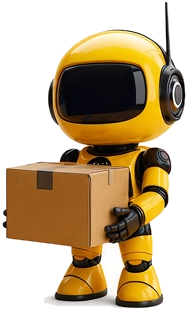
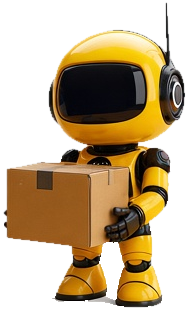
Robot placement fixes: de-fringe CTA bots, resize/reposition, strip About photo
- coffee/box PNGs: removed leftover white in the leg area (enclosed gap the
  border flood-fill missed) + 1px halo shave; white mug and box protected
- Pricing CTA bots: smaller (max 138px), lifted to vertical-centre beside the
  copy, pulled inward
- About founder section: removed stock founder photo + caption, collapsed to a
  centred copy column, killed the white gap above the team panel

diff --git a/src/components/AboutPageClient.tsx b/src/components/AboutPageClient.tsx
@@ -813,7 +813,7 @@ function ValuesSection() {
 function WorkforceSection() {
   return (
     <section
-      style={{ backgroundColor: "#fff", paddingTop: 'clamp(48px, 10vw, 96px)', paddingBottom: 'clamp(48px, 10vw, 96px)' }}
+      style={{ backgroundColor: "#fff", paddingTop: 'clamp(48px, 10vw, 96px)', paddingBottom: 'clamp(24px, 5vw, 48px)' }}
     >
       <div className="max-w-4xl mx-auto px-4 sm:px-6 lg:px-8">
         {/* Badge */}
@@ -959,7 +959,7 @@ function FounderSection() {
     <section
       style={{
         backgroundColor: "#FFFDF5",
-        paddingTop: 'clamp(48px, 10vw, 96px)',
+        paddingTop: 'clamp(8px, 1.5vw, 20px)',
         paddingBottom: 'clamp(48px, 10vw, 96px)',
         overflow: "hidden",
       }}
@@ -978,72 +978,7 @@ function FounderSection() {
             />
           </div>
         </ScrollReveal>
-        <div
-          style={{
-            display: "grid",
-            gridTemplateColumns: "1fr",
-            gap: 48,
-            alignItems: "center",
-          }}
-          className="lg:grid-cols-2"
-        >
-          {/* Photo */}
-          <ScrollReveal>
-            <div style={{ maxWidth: 400, margin: "0 auto" }}>
-              <div
-                style={{ borderRadius: 20, overflow: "hidden" }}
-              >
-                <div
-                  style={{
-                    position: "relative",
-                    borderRadius: 20,
-                    overflow: "hidden",
-                    boxShadow: 'var(--elev-raised)',
-                  }}
-                >
-                  <Image
-                    src="/founder-photo.png"
-                    alt="Renewably founder"
-                    width={432}
-                    height={576}
-                    sizes="(max-width: 1024px) 100vw, 432px"
-                    style={{
-                      width: "100%",
-                      height: "auto",
-                      display: "block",
-                      objectFit: "cover",
-                    }}
-                  />
-                  <div
-                    style={{
-                      position: "absolute",
-                      bottom: 0,
-                      left: 0,
-                      right: 0,
-                      height: 120,
-                      background:
-                        "linear-gradient(to top, rgba(243,216,64,0.4), transparent)",
-                      pointerEvents: "none",
-                    }}
-                  />
-                </div>
-              </div>
-
-              {/* Caption */}
-              <p
-                style={{
-                  textAlign: "center",
-                  marginTop: 16,
-                  fontSize: 13,
-                  color: "#6B7280",
-                  fontStyle: "italic",
-                }}
-              >
-                Based in Ireland. Working with Irish solar installers every day.
-              </p>
-            </div>
-          </ScrollReveal>
-
+        <div style={{ maxWidth: 760, margin: "0 auto" }}>
           {/* Copy */}
           <div>
             <ScrollReveal>

diff --git a/src/components/PricingPageClient.tsx b/src/components/PricingPageClient.tsx
@@ -326,15 +326,16 @@ export default function PricingPageClient() {
           <style>{`
             .cta-team-bot {
               position: absolute;
-              bottom: 0;
-              width: clamp(130px, 14vw, 185px);
+              top: 50%;
+              transform: translateY(-50%);
+              width: clamp(96px, 10vw, 138px);
               height: auto;
               pointer-events: none;
               z-index: 1;
-              filter: drop-shadow(0 12px 18px rgba(0,0,0,0.18));
+              filter: drop-shadow(0 10px 16px rgba(0,0,0,0.16));
             }
-            .cta-team-bot-left { left: clamp(8px, 4vw, 72px); }
-            .cta-team-bot-right { right: clamp(8px, 4vw, 72px); }
+            .cta-team-bot-left { left: clamp(12px, 9vw, 150px); }
+            .cta-team-bot-right { right: clamp(12px, 9vw, 150px); }
             @media (max-width: 1023px) {
               .cta-team-bot { display: none; }
             }
